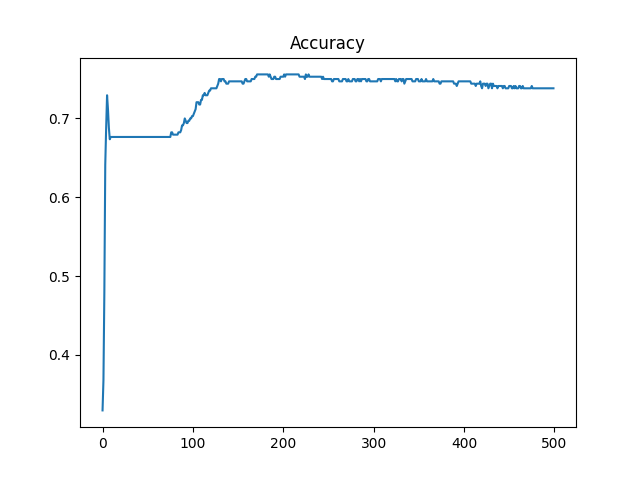
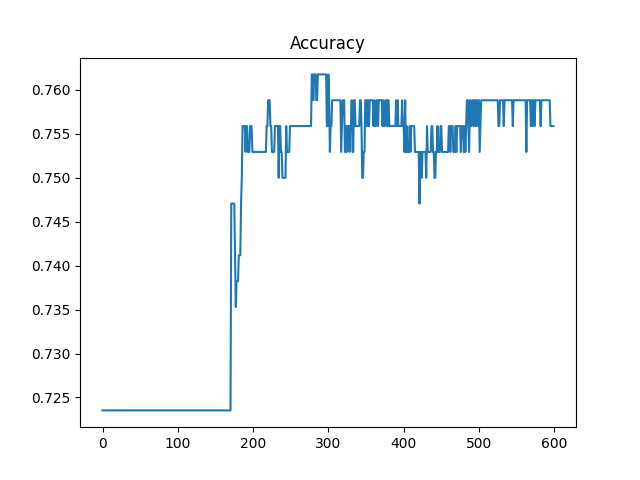
Better model with 2 layers

diff --git a/main.py b/main.py
@@ -20,6 +20,7 @@ if menu == 1:
 
     # Layers
     model.add(tf.keras.layers.Dense(3, input_dim=3, activation='relu'))
+    model.add(tf.keras.layers.Dense(3, activation='relu'))
     model.add(tf.keras.layers.Dense(1, activation='sigmoid'))
 
     # Complie
@@ -28,7 +29,7 @@ if menu == 1:
                   metrics=['binary_accuracy'])
 
     # Train
-    fitModel = model.fit(x, y, epochs=500, verbose=1)
+    fitModel = model.fit(x, y, epochs=600, verbose=1)
 
     # Results
     loss_data = fitModel.history["loss"]
@@ -42,11 +43,11 @@ if menu == 1:
     plt.show()
 
     # Save model
-    model.save("SimpelRainModel.h5")
+    model.save("RainModel.h5")
 
 elif menu == 2:
     # Load model
-    model = tf.keras.models.load_model("SimpelRainModel.h5")
+    model = tf.keras.models.load_model("RainModel.h5")
 
     # Test data
     x, y = getData()
@@ -56,7 +57,7 @@ elif menu == 2:
 
 elif menu == 3:
     # Load model
-    model = tf.keras.models.load_model("SimpelRainModel.h5")
+    model = tf.keras.models.load_model("RainModel.h5")
 
     # Test data
     print("Enter temperature (C): ")

diff --git a/preprocessing.py b/preprocessing.py
@@ -105,7 +105,7 @@ def normalizeData(x):
 
 def boolRain(y):
     # Variables
-    rainLimit = 1
+    rainLimit = 2
     y_bool = []
 
     # Convert
